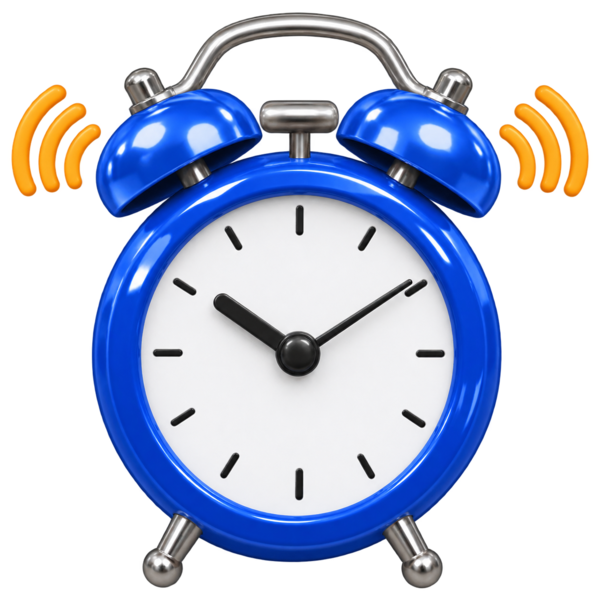
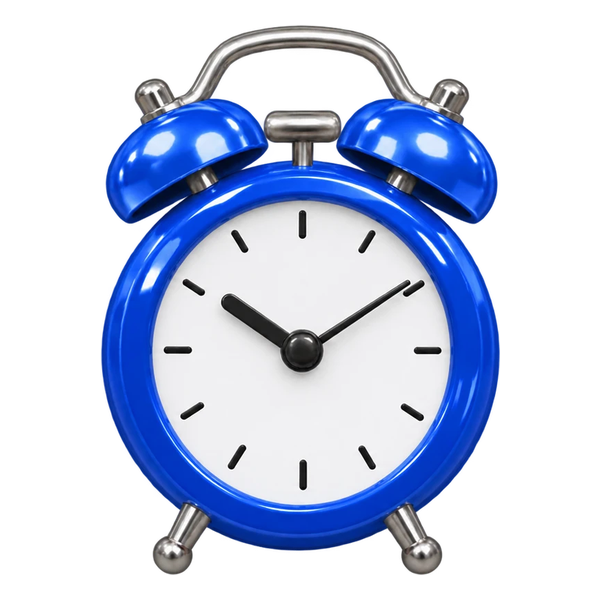
Two-frame alarm, +5 s gold stopwatch pick-up, sound button on every page
- Alarm now has a ringing frame cross-faded over the still one; any sprite with a '<kind>-on'
  twin gets the same treatment automatically
- New bonus pick-up: the gold stopwatch adds 5 seconds to the clock (rare, after 8 s, max two a
  round, never in the final 8 s); HUD timer bumps, +5s pop, row added to How To Play
- js/mute.js: one round gold-rimmed sound button top-right on cover, register, game and results;
  remembered across pages; music returns on unmute

Claude-Session: https://claude.ai/code/session_015MHPva5poJRMsYCwYdZb4s

Changed region(s): [[0.0, 0.0, 0.99, 0.99], [0.57, 0.51, 0.63, 0.54]]

diff --git a/js/game.js b/js/game.js
@@ -116,6 +116,14 @@
     GOLD_SHARE: 0.088,      // per regular spawn; with doubles and crossfires this lands near 6 % of all spawns ...
     GOLD_AFTER_SECONDS: 5,  // ... after this many seconds
     GOLD_SCORE: 3,
+    // --- Bonus pick-ups (good items that are not wafers). The gold stopwatch adds seconds to the clock.
+    BONUS_TIME_SECONDS: 5,
+    BONUS_AFTER_SECONDS: 8, // first one no earlier than this ...
+    BONUS_LAST_SECONDS: 8,  // ... and none inside the final N seconds
+    BONUS_SHARE: 0.035,     // per regular spawn
+    BONUS_MAX_PER_ROUND: 2,
+    FRAME_FLIP_HZ: 2.6,     // two-frame icons ("<kind>-on" sprite present) cross-fade at this rate
+    BONUS_FLIP_HZ: 1.4,
     HAZARDS: ['alarm', 'deadline', 'phone', 'inbox'], // rotated, no immediate repeat (reference set)
     HAZARD_FALLBACK: ['alarm', 'deadline'], // used when none of HAZARDS loaded (vector fallbacks exist)
     BAD_LANE_COOLDOWN: 0.6, // no hazard in a lane within this of the previous hazard there
@@ -235,9 +243,9 @@
   };
 
   // Sprite names. 'alarm'/'deadline' kept as named constants for backwards compatibility.
-  var KIND = { WAFER: 'wafer', GOLD: 'gold', ALARM: 'alarm', DEADLINE: 'deadline', PHONE: 'phone', INBOX: 'inbox' };
+  var KIND = { WAFER: 'wafer', GOLD: 'gold', ALARM: 'alarm', DEADLINE: 'deadline', PHONE: 'phone', INBOX: 'inbox', BONUS_TIME: 'bonus-time' };
   // Item classes (what the rules care about). Hazard items carry their sprite name in `kind`.
-  var CLS = { WAFER: 'wafer', GOLD: 'gold', HAZARD: 'hazard' };
+  var CLS = { WAFER: 'wafer', GOLD: 'gold', HAZARD: 'hazard', BONUS: 'bonus' };
   var BAD_KINDS = TUNING.HAZARDS.slice();
   var TWO_PI = Math.PI * 2, DEG = Math.PI / 180;
 
@@ -352,6 +360,10 @@
     var s4 = makeCanvas(220 * scale, 150 * scale), c4 = s4.getContext('2d');
     c4.scale(scale, scale); fillGoldText(c4, '+3', 110, 75, 108, true);
     out.plus3 = { canvas: s4, w: 220, h: 150, ox: 110, oy: 75 };
+    // "+5s" (time bonus)
+    var s5 = makeCanvas(260 * scale, 150 * scale), c5 = s5.getContext('2d');
+    c5.scale(scale, scale); fillGoldText(c5, '+' + TUNING.BONUS_TIME_SECONDS + 's', 130, 75, 96, true);
+    out.time = { canvas: s5, w: 260, h: 150, ox: 130, oy: 75 };
     // big "+1 / N IN A ROW"
     var s2 = makeCanvas(440 * scale, 320 * scale), c2 = s2.getContext('2d');
     c2.scale(scale, scale); fillGoldText(c2, '+1', 220, 120, 190, true);
@@ -610,6 +622,7 @@
     var splashT = 0, shakeT = 0, recoilT = 0, recoilDir = 1, tilt = 0, comboPulse = 0, comboN = 0;
     var sloshX = 0, sloshV = 0, prevMugV = 0; // drink surface slosh (damped oscillator driven by mug acceleration)
     var wobbleT = 0;                             // post-hit rocking
+    var bonusSpawned = 0;                        // bonus pick-ups spawned this round
     var raysX = T.STAGE_W / 2; // rays are pinned to the stage centre and only rotate
 
     var lanes = [];
@@ -723,15 +736,16 @@
         if (consecutiveBads >= T.MAX_CONSECUTIVE_BADS || simTime - L.lastBadAt < T.BAD_LANE_COOLDOWN) cls = CLS.WAFER;
       }
       var bad = cls === CLS.HAZARD;
-      var kind = bad ? pickHazard(rng, hazards, lastHazard) : (cls === CLS.GOLD ? KIND.GOLD : KIND.WAFER);
+      var kind = bad ? pickHazard(rng, hazards, lastHazard) : (cls === CLS.GOLD ? KIND.GOLD : cls === CLS.BONUS ? KIND.BONUS_TIME : KIND.WAFER);
+      if (cls === CLS.BONUS) bonusSpawned++;
       if (bad) lastHazard = kind;
       L.lastAt = simTime; L.lastKind = kind;
       if (bad) { L.lastBadAt = simTime; consecutiveBads++; } else consecutiveBads = 0;
 
-      it.active = true; it.kind = kind; it.cls = cls; it.bad = bad; it.gold = cls === CLS.GOLD; it.state = 'fall'; it.lane = lane; it.pattern = pattern;
+      it.active = true; it.kind = kind; it.cls = cls; it.bad = bad; it.gold = cls === CLS.GOLD; it.bonus = cls === CLS.BONUS; it.state = 'fall'; it.lane = lane; it.pattern = pattern;
       it.baseX = spawnMinX + laneW * (lane + 0.5) + rng.range(-1, 1) * laneW * T.LANE_JITTER;
       it.swayAmp = rng.pick(T.SWAY_AMP); it.swayW = rng.pick(T.SWAY_HZ) * TWO_PI; it.swayPh = rng() * TWO_PI;
-      if (bad) { it.rotBase = rng.pick(T.ROT_BASE) * (rng() < 0.5 ? -1 : 1); it.rotAmp = rng.pick(T.ROT_AMP); it.rotW = rng.pick(T.ROT_HZ) * TWO_PI; }
+      if (bad || cls === CLS.BONUS) { it.rotBase = rng.pick(T.ROT_BASE) * (bad ? 1 : 0.4) * (rng() < 0.5 ? -1 : 1); it.rotAmp = rng.pick(T.ROT_AMP); it.rotW = rng.pick(T.ROT_HZ) * TWO_PI; }
       else { it.rotBase = rng.range(-T.WAFER_ROT_BASE, T.WAFER_ROT_BASE); it.rotAmp = rng.pick(T.WAFER_ROT_AMP); it.rotW = rng.pick(T.WAFER_ROT_HZ) * TWO_PI; } // swings, broken end down
       it.rotPh = rng() * TWO_PI;
       it.vy = speed; it.t = 0; it.ft = 0; it.trailT = 0; it.alpha = 1; it.size = 1; it.resolved = false;
@@ -789,6 +803,7 @@
         return T.DOUBLE_GAP;
       }
       var cls = pickKind(rng, simTime, simTime, lane, lanes, consecutiveBads, T, diff);
+      if (cls !== CLS.HAZARD && bonusSpawned < T.BONUS_MAX_PER_ROUND && simTime >= T.BONUS_AFTER_SECONDS && duration - simTime > T.BONUS_LAST_SECONDS && sprites && sprites[KIND.BONUS_TIME] && sprites[KIND.BONUS_TIME].fromImage && rng() < T.BONUS_SHARE) cls = CLS.BONUS;
       // Make the player move: most hazards drop into the mug's own lane, most wafers land a lane or two away.
       var mugLane = clamp(Math.floor((mug.x - spawnMinX) / laneW), 0, T.LANES - 1);
       if (cls === CLS.HAZARD && rng() < T.HAZARD_AT_MUG && simTime - lanes[mugLane].lastBadAt >= T.BAD_LANE_COOLDOWN) lane = mugLane;
@@ -881,6 +896,15 @@
     // ---- Resolution ---------------------------------------------------------
     function resolveCatch(it) {
       it.resolved = true; it.state = 'dunk'; it.ft = 0;
+      if (it.bonus) {
+        // gold stopwatch: more time on the clock, no score, streak untouched
+        duration += T.BONUS_TIME_SECONDS; state.bonusTime = (state.bonusTime || 0) + T.BONUS_TIME_SECONDS;
+        splash(T.MUG_RIM_Y); addGlow(); addFlash(true); splashT = T.SPLASH_FRAME_SECONDS;
+        sparkleBurst(mug.x, T.MUG_RIM_Y, reduced ? 4 : T.GOLD_BURST);
+        addPopup('time', it.x, T.MUG_RIM_Y - 120);
+        emit({ type: 'catch', kind: it.kind, points: 0, bonus: 'time', seconds: T.BONUS_TIME_SECONDS, score: state.score, streak: state.streak, x: it.x });
+        return;
+      }
       var points = it.gold ? T.GOLD_SCORE : 1;
       state.caught++; if (it.gold) state.gold++;
       state.score += points; state.streak++;
@@ -958,7 +982,7 @@
           it.y += it.vy * (it.state === 'fade' ? T.MISS_FADE_SPEED : 1) * dt;
           it.x = it.baseX + Math.sin(it.swayPh + it.t * it.swayW) * it.swayAmp;
           it.rot = it.rotBase + Math.sin(it.rotPh + it.t * it.rotW) * it.rotAmp;
-          if (!it.bad) { var ak = clamp((it.y - (T.MUG_RIM_Y - T.WAFER_ALIGN_PX)) / T.WAFER_ALIGN_PX, 0, 1); ak = ak * ak * (3 - 2 * ak); it.rot *= 1 - T.WAFER_ALIGN * ak; }
+          if (!it.bad && !it.bonus) { var ak = clamp((it.y - (T.MUG_RIM_Y - T.WAFER_ALIGN_PX)) / T.WAFER_ALIGN_PX, 0, 1); ak = ak * ak * (3 - 2 * ak); it.rot *= 1 - T.WAFER_ALIGN * ak; }
           if (it.gold && ctx && !reduced) { it.trailT -= dt; if (it.trailT <= 0) { it.trailT = T.GOLD_TRAIL_EVERY; trailSparkle(it); } }
           if (!it.resolved) {
             if (catchTest(it.x, it.y, mug.x, T)) {
@@ -1187,6 +1211,13 @@
         }
       }
       blitT(v, x, y, rot, it.size, it.size, itemAlpha);
+      // two-frame icon: the "<kind>-on" frame fades in and out over the still one (bells ringing, glow pulsing)
+      var on = sprites[it.kind + '-on'];
+      if (on && on.fromImage && it.alpha > 0.05) {
+        var fk = it.bad ? hz : 0.5 + 0.5 * Math.sin(clock * T.BONUS_FLIP_HZ * TWO_PI + it.swayPh);
+        if (it.bad) fk = 0.5 + 0.5 * Math.sin(clock * T.FRAME_FLIP_HZ * TWO_PI + it.swayPh);
+        blitT(on.rotated(0), x, y, rot, it.size, it.size, itemAlpha * fk);
+      }
     }
 
     function render(a) {
@@ -1351,7 +1382,7 @@
           var rise = easeOutCubic(tt) * 120;
           var fd = tt > 0.55 ? 1 - (tt - 0.55) / 0.45 : 1;
           var scp = tt < 0.22 ? easeOutBack(tt / 0.22, 2.4) * T.POPUP_POP : T.POPUP_POP - (T.POPUP_POP - 1) * Math.min(1, (tt - 0.22) / 0.2);
-          blit(pp.kind === 'minus' ? text.minus : (pp.kind === 'plus3' ? text.plus3 : text.plus), pp.x, pp.y - rise, fd, scp);
+          blit(pp.kind === 'minus' ? text.minus : pp.kind === 'plus3' ? text.plus3 : pp.kind === 'time' ? text.time : text.plus, pp.x, pp.y - rise, fd, scp);
         }
       }
 

diff --git a/game.html b/game.html
@@ -14,7 +14,7 @@
 <link rel="preconnect" href="https://fonts.googleapis.com">
 <link rel="preconnect" href="https://fonts.gstatic.com" crossorigin>
 <link rel="stylesheet" href="https://fonts.googleapis.com/css2?family=Plus+Jakarta+Sans:ital,wght@0,500;0,600;0,700;0,800;1,700;1,800&family=DM+Sans:ital,opsz,wght@0,9..40,400;0,9..40,500;0,9..40,600;0,9..40,700;1,9..40,700&family=Figtree:ital,wght@0,500;0,600;0,700;0,900;1,900&family=Urbanist:ital,wght@0,500;0,600;0,700;0,900;1,900&family=Poppins:ital,wght@0,800;1,800;1,900&family=Montserrat:ital,wght@1,900&display=swap">
-<link rel="stylesheet" href="css/style.css?v=20261127a">
+<link rel="stylesheet" href="css/style.css?v=20261127b">
 <style>
   /* ---------- Game screen, 1080x1920 stage, matched to reference/game-screen-reference.webp ---------- */
   :root { --kk-red: #c8102e; --gold: #f3cf7a; --gold-deep: #c9962e; --cream: #fff3d8; --ink: #5a0d16; --hud-h: 180px; }
@@ -141,17 +141,17 @@
   .how-card { height: auto; padding: 26px 40px; box-sizing: border-box; border-radius: 34px; border: 5px solid transparent;
     background: linear-gradient(180deg, #fff8e8 0%, #fdf0cf 55%, #fbe7b0 100%) padding-box, var(--gold-line) border-box;
     box-shadow: inset 0 2px 0 rgba(255,255,255,.9), 0 24px 60px rgba(0,0,0,.45); display: flex; flex-direction: column; gap: 10px; }
-  .how-row { display: flex; align-items: center; gap: 26px; padding: 14px 10px; border-bottom: 2px solid rgba(201,150,46,.28); }
+  .how-row { display: flex; align-items: center; gap: 26px; padding: 8px 10px; border-bottom: 2px solid rgba(201,150,46,.28); }
   .how-row:last-child { border-bottom: 0; }
-  .how-icons { flex: 0 0 320px; height: 150px; display: flex; align-items: center; justify-content: center; gap: 14px; }
-  .how-icons img { height: 150px; width: auto; filter: drop-shadow(0 10px 14px rgba(90,20,0,.35)); }
+  .how-icons { flex: 0 0 320px; height: 126px; display: flex; align-items: center; justify-content: center; gap: 14px; }
+  .how-icons img { height: 126px; width: auto; filter: drop-shadow(0 10px 14px rgba(90,20,0,.35)); }
   .how-icons.four { gap: 8px; } .how-icons.four img { height: 86px; }
   .how-t { flex: 1 1 auto; text-align: left; min-width: 0; }
   .how-t b { display: block; font: 900 italic 44px/1.05 var(--font-display); text-transform: uppercase; color: #c8102e; }
   .how-t span { display: block; margin-top: 8px; font: 600 28px/1.2 var(--font-body); color: #3a1a06; }
-  .how-pts { flex: 0 0 130px; text-align: center; font: 900 italic 76px/1 var(--font-display); }
+  .how-pts { flex: 0 0 150px; text-align: center; font: 900 italic 68px/1 var(--font-display); }
   .how-pts.good { color: #c8102e; } .how-pts.gold { background: linear-gradient(180deg, #ffe49a, #c98a1e); -webkit-background-clip: text; background-clip: text; color: transparent; } .how-pts.bad { color: #7a0a14; }
-  .how-foot { position: absolute; left: 0; right: 0; top: 1436px; display: flex; align-items: center; justify-content: center; gap: 26px; font: 700 34px/1 var(--font-body); color: #fff; }
+  .how-foot { position: absolute; left: 0; right: 0; top: 1476px; display: flex; align-items: center; justify-content: center; gap: 26px; font: 700 34px/1 var(--font-body); color: #fff; }
   .how-foot u { text-decoration-thickness: 2px; text-underline-offset: 6px; }
   .how-ring { width: 96px; height: 96px; border-radius: 50%; display: grid; place-items: center; background: conic-gradient(#f3cf7a var(--p, 100%), rgba(255,255,255,.18) 0); }
   .how-ring b { width: 76px; height: 76px; border-radius: 50%; background: #8a0610; display: grid; place-items: center; font: 900 italic 42px/1 var(--font-display); color: #fff3d8; }
@@ -350,6 +350,7 @@
       <div class="how-card pre-card">
         <div class="how-row"><div class="how-icons"><img src="assets/img/game/wafer.png" alt=""></div><div class="how-t"><b>Catch the wafers</b><span>Let them drop into your mug</span></div><div class="how-pts good">+1</div></div>
         <div class="how-row"><div class="how-icons"><img src="assets/img/game/wafer-gold.png" alt=""></div><div class="how-t"><b>Gold wafer</b><span>Rare. Worth three.</span></div><div class="how-pts gold">+3</div></div>
+        <div class="how-row"><div class="how-icons"><img src="assets/img/game/bonus-time-on.png" alt=""></div><div class="how-t"><b>Gold stopwatch</b><span>Adds time to the clock</span></div><div class="how-pts gold">+5s</div></div>
         <div class="how-row"><div class="how-icons four"><img src="assets/img/game/alarm.png" alt=""><img src="assets/img/game/phone.png" alt=""><img src="assets/img/game/deadline.png" alt=""><img src="assets/img/game/inbox.png" alt=""></div><div class="how-t"><b>Dodge these</b><span>Alarms, calls, deadlines, mail</span></div><div class="how-pts bad">−1</div></div>
       </div>
       <div class="how-foot"><div class="how-ring" id="how-ring"><b id="how-n">5</b></div><span>Starting in a moment · <u>tap to start now</u></span></div>
@@ -428,6 +429,7 @@
 <script src="js/stage.js?v=20261126e"></script>
 <script src="js/ambient.js?v=20261126e"></script>
 <script src="js/audio.js?v=20261127f" data-preload="manual"></script>
+<script src="js/mute.js?v=20261127a"></script>
 <script src="js/tracker.js?v=20261127f"></script>
 <script src="js/sprites.js?v=20261126e"></script>
 <script src="js/game.js?v=20261126e"></script>

diff --git a/js/mute.js b/js/mute.js
@@ -1,0 +1,20 @@
+// Sound button, the same on every page: a round gold-rimmed toggle in the top-right of the stage.
+// Mute is remembered across pages (localStorage kk_mute) and the music comes straight back on unmute.
+(function () {
+  var A = window.KKAudio, stage = document.querySelector('.stage'); if (!A || !stage) return;
+  var b = document.createElement('button'); b.type = 'button'; b.className = 'mute-btn'; b.setAttribute('aria-label', 'Sound on / off');
+  b.innerHTML =
+    '<svg class="i-on" viewBox="0 0 24 24" fill="none" stroke="currentColor" stroke-width="2.2" stroke-linecap="round" stroke-linejoin="round"><path d="M4 9.5v5h3.5L13 19V5L7.5 9.5H4z" fill="currentColor"/><path d="M16 9a4 4 0 0 1 0 6"/><path d="M18.5 6.5a7.5 7.5 0 0 1 0 11"/></svg>' +
+    '<svg class="i-off" viewBox="0 0 24 24" fill="none" stroke="currentColor" stroke-width="2.2" stroke-linecap="round" stroke-linejoin="round"><path d="M4 9.5v5h3.5L13 19V5L7.5 9.5H4z" fill="currentColor"/><path d="M16.5 9.5l5 5M21.5 9.5l-5 5"/></svg>';
+  function render() { b.classList.toggle('muted', !!(A.isMuted && A.isMuted())); }
+  // swallow the press so page-level tap handlers (keyboard close, "tap to start", start button) never see it
+  ['pointerdown', 'touchstart', 'mousedown'].forEach(function (ev) { b.addEventListener(ev, function (e) { e.stopPropagation(); }, { passive: true }); });
+  b.addEventListener('click', function (e) {
+    e.stopPropagation(); e.preventDefault();
+    var m = !(A.isMuted && A.isMuted());
+    A.setMuted(m); try { localStorage.setItem('kk_mute', m ? '1' : '0'); } catch (_) {}
+    render(); if (!m && A.tap) A.tap();
+  });
+  stage.appendChild(b); render();
+  window.addEventListener('kk:mute', render);
+})();

diff --git a/js/audio.js b/js/audio.js
@@ -155,8 +155,9 @@
     g.gain.linearRampToValueAtTime(1, c.currentTime + (continued ? 120 : fadeMs) / 1000); // a continued track comes straight back in
     return { name, src, gain: g, startedAt: c.currentTime, offset };
   }
+  let wantedKey = null; // the loop the page asked for, so unmuting can bring it back
   async function music(key, { fade = 600 } = {}) {
-    const name = MUSIC[key]; if (!name) return;
+    const name = MUSIC[key]; if (!name) return; wantedKey = key;
     await load(name);
     if (muted || !buffers[name]) { if (!buffers[name]) stopMusic(fade); return; }
     if (current && current.name === name) return;
@@ -169,7 +170,10 @@
   A.music = music; A.stopMusic = stopMusic; A.sting = sting;
   A.setVolumes = v => { Object.assign(vol, v); try { localStorage.setItem('kk_volume', JSON.stringify(vol)); } catch (_) {} if (ctx) { master.gain.value = vol.master; musicBus.gain.value = vol.music; sfxBus.gain.value = vol.sfx; } };
   A.getVolumes = () => Object.assign({}, vol);
-  const baseMute = A.setMuted; A.setMuted = m => { muted = !!m; baseMute(m); if (muted) stopMusic(200); };
+  const baseMute = A.setMuted; A.setMuted = m => { const was = muted; muted = !!m; baseMute(m); if (muted) stopMusic(200); else if (was && wantedKey) music(wantedKey, { fade: 300 }); try { window.dispatchEvent(new CustomEvent('kk:mute', { detail: muted })); } catch (_) {} };
+  A.isMuted = () => muted;
+  // remembered from the sound button on any page
+  try { if (localStorage.getItem('kk_mute') === '1') A.setMuted(true); } catch (_) {}
   A.hasFiles = () => Object.keys(buffers).length > 0;
   A.preload = preload;
 })();

diff --git a/js/flow.js b/js/flow.js
@@ -362,7 +362,10 @@
   }
   function onGameEvent(e) {
     switch (e.type) {
-      case 'catch': e.kind === 'gold' ? KKAudio.gold() : KKAudio.catch(); break;
+      case 'catch':
+        if (e.bonus === 'time') { KKAudio.gold(); hud.time.classList.remove('bump'); void hud.time.offsetWidth; hud.time.classList.add('bump'); toast(`+${e.seconds} seconds!`); }
+        else e.kind === 'gold' ? KKAudio.gold() : KKAudio.catch();
+        break;
       case 'pattern': KKAudio.whoosh(); break;
       case 'final10': KKAudio.hurry(); KKAudio.music('playFast', { fade: 800 }); break;
       case 'streak': KKAudio.streak(); break;
@@ -501,7 +504,7 @@
 
   // ---------- boot ----------
   async function boot() {
-    KKAudio.setMuted(!settings.sound); setPip(settings.pip || qs.get('debug') === '1');
+    if (!settings.sound) KKAudio.setMuted(true); setPip(settings.pip || qs.get('debug') === '1');
     if (/^[bcd]$/.test(qs.get('bg') || '')) document.body.classList.add('bg-' + qs.get('bg'));
     document.addEventListener('visibilitychange', () => { if (!game) return; document.hidden ? game.pause() : (phase === 'playing' && game.resume()); });
     loadSprites().then(() => KKAudio.preload()); // artwork first, then the 8 MB of audio, so sprites never lose the bandwidth race

diff --git a/css/style.css b/css/style.css
@@ -297,3 +297,12 @@ html.is-kiosk img { image-rendering: auto; }
 }
 .res .none-wrap > span { font: 800 italic 36px/1.2 "Poppins", var(--font-display) !important; color: #5a0d16 !important; -webkit-text-fill-color: #5a0d16; text-shadow: none !important; }
 .res .res-stats span { color: #5a0d16; }
+
+/* Sound on/off: one round gold-rimmed button, top-right of every stage (js/mute.js) */
+.mute-btn { position: absolute; right: 34px; top: 34px; width: 92px; height: 92px; border-radius: 50%; padding: 0; cursor: pointer; z-index: 60;
+  border: 4px solid transparent; background: linear-gradient(180deg, #a90c17, #7a0610) padding-box, var(--gold-line, linear-gradient(180deg, #fff2c6, #e2b14c 45%, #f8e2a3 65%, #b8862a)) border-box;
+  box-shadow: inset 0 2px 0 rgba(255,255,255,.18), 0 8px 18px rgba(60,0,0,.45); color: #fff3d8; display: grid; place-items: center; -webkit-tap-highlight-color: transparent; }
+.mute-btn svg { width: 50px; height: 50px; grid-area: 1 / 1; }
+.mute-btn .i-off { display: none; } .mute-btn.muted .i-on { display: none; } .mute-btn.muted .i-off { display: block; }
+.mute-btn.muted { color: #f3cf7a; opacity: .92; }
+.mute-btn:active { transform: scale(.94); }

diff --git a/index.html b/index.html
@@ -14,7 +14,7 @@
 <link rel="preconnect" href="https://fonts.googleapis.com">
 <link rel="preconnect" href="https://fonts.gstatic.com" crossorigin>
 <link rel="stylesheet" href="https://fonts.googleapis.com/css2?family=Plus+Jakarta+Sans:ital,wght@0,500;0,600;0,700;0,800;1,700;1,800&family=DM+Sans:ital,opsz,wght@0,9..40,400;0,9..40,500;0,9..40,600;0,9..40,700;1,9..40,700&family=Figtree:ital,wght@0,500;0,600;0,700;0,900;1,900&family=Urbanist:ital,wght@0,500;0,600;0,700;0,900;1,900&family=Poppins:ital,wght@0,800;1,800;1,900&display=swap">
-<link rel="stylesheet" href="css/style.css?v=20261127a">
+<link rel="stylesheet" href="css/style.css?v=20261127b">
 <style>
   /* Cover is built from the supplied 1125x2000 layers, which share the 9:16 ratio of the 1080x1920 stage,
      so every full-frame layer is placed at 100% x 100% with no resampling beyond the 0.96 stage fit. */
@@ -79,6 +79,7 @@
 
 <script src="js/stage.js?v=20261126e"></script>
 <script src="js/audio.js?v=20261127f"></script>
+<script src="js/mute.js?v=20261127a"></script>
 <script src="js/ambient.js?v=20261126e"></script>
 <script>
   // .enter plays once, then the continuous float/sway take over.

diff --git a/register.html b/register.html
@@ -14,7 +14,7 @@
 <link rel="preconnect" href="https://fonts.googleapis.com">
 <link rel="preconnect" href="https://fonts.gstatic.com" crossorigin>
 <link rel="stylesheet" href="https://fonts.googleapis.com/css2?family=Plus+Jakarta+Sans:ital,wght@0,500;0,600;0,700;0,800;1,700;1,800&family=DM+Sans:ital,opsz,wght@0,9..40,400;0,9..40,500;0,9..40,600;0,9..40,700;1,9..40,700&family=Figtree:ital,wght@0,500;0,600;0,700;0,900;1,900&family=Urbanist:ital,wght@0,500;0,600;0,700;0,900;1,900&family=Poppins:ital,wght@0,800;1,800;1,900&display=swap">
-<link rel="stylesheet" href="css/style.css?v=20261127a">
+<link rel="stylesheet" href="css/style.css?v=20261127b">
 <style>
   /* Registration screen, matched to the supplied design on the 1080x1920 stage.
      Positions below are the reference's pixel positions scaled to the stage. */
@@ -195,6 +195,7 @@
 <script src="js/otp-config.js?v=20261127b"></script>
 <script src="js/stage.js?v=20261126e"></script>
 <script src="js/audio.js?v=20261127f"></script>
+<script src="js/mute.js?v=20261127a"></script>
 <script src="js/ambient.js?v=20261126e"></script>
 <script src="js/keyboard.js?v=20261126e"></script>
 <script>

diff --git a/sw.js b/sw.js
@@ -16,7 +16,7 @@ const CORE = ['./', './index.html', './register.html', './game.html', './manifes
   // Gameplay artwork: fetched while the player is still on the cover/register, so the game never has to wait for it.
   './assets/img/game/mug.png', './assets/img/game/mug-splash.png', './assets/img/game/wafer.png', './assets/img/game/wafer-gold.png',
   './assets/img/game/wafer-piece.png', './assets/img/game/splash-drop.png', './assets/img/game/sparkle.png', './assets/img/game/alarm.png',
-  './assets/img/game/deadline.png', './assets/img/game/phone.png', './assets/img/game/inbox.png',
+  './assets/img/game/deadline.png', './assets/img/game/phone.png', './assets/img/game/inbox.png', './assets/img/game/alarm-on.png', './assets/img/game/bonus-time.png', './assets/img/game/bonus-time-on.png',
   './assets/img/game/header-dunk.png', './assets/img/game/prize-cap.png', './assets/img/game/prize-tee.png', './assets/img/game/wave-pre.webp'];
 
 self.addEventListener('install', e => { e.waitUntil(caches.open(VERSION).then(c => Promise.all(CORE.map(u => c.add(u).catch(() => {})))).then(() => self.skipWaiting())); });

diff --git a/tests/game/sim.test.js b/tests/game/sim.test.js
@@ -45,7 +45,7 @@ const DURATION = 40;
 const RANGE = T.MUG_MAX_X - T.MUG_MIN_X;
 const CATCH_HALF = T.MUG_HALF_WIDTH * T.CATCH_HALF_FRAC;
 const toX01 = x => Math.min(1, Math.max(0, (x - T.MUG_MIN_X) / RANGE));
-const isGood = k => k === 'wafer' || k === 'gold';
+const isGood = k => k === 'wafer' || k === 'gold' || k === 'bonus-time';
 
 /* ---------------------------------------------------------------- runner */
 const results = [];
